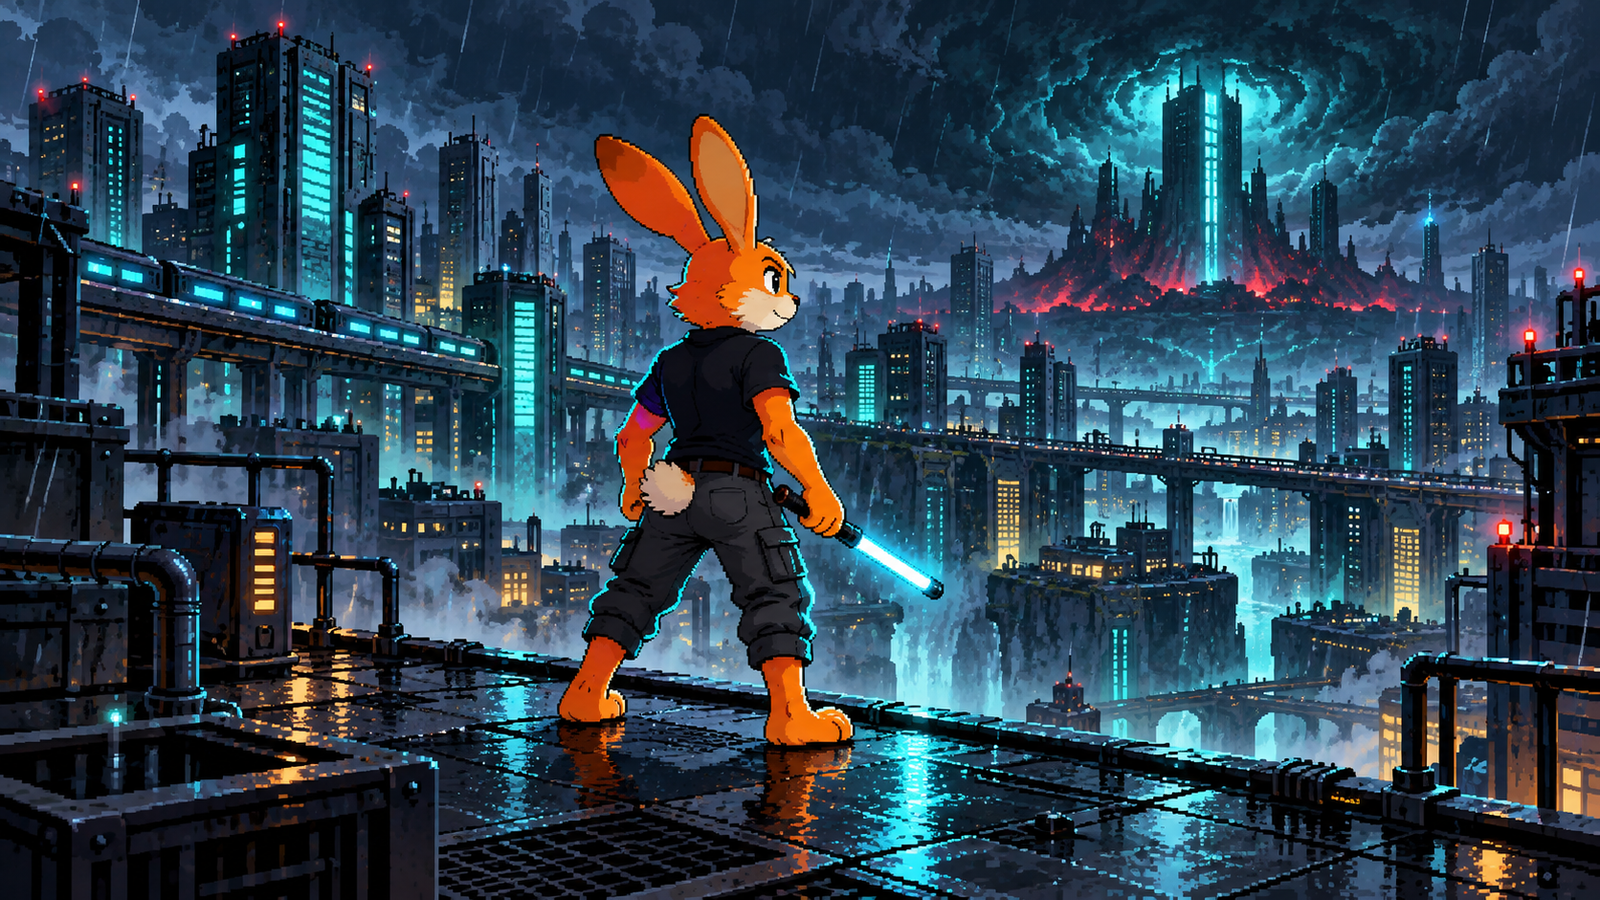
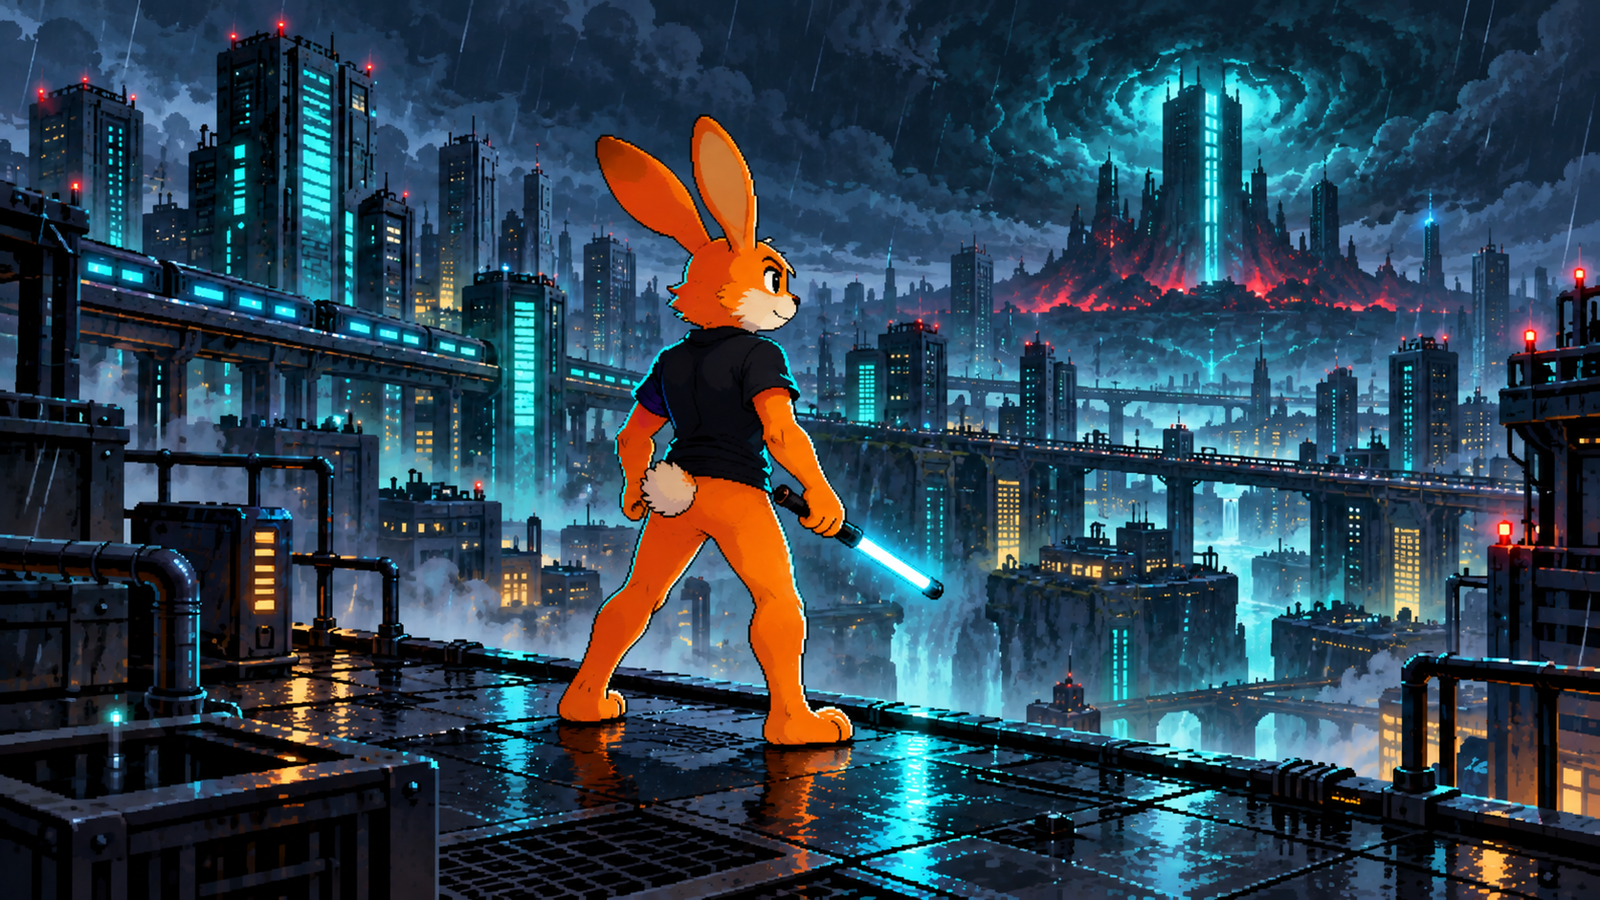
fix(arcade): restore Hoppy's bare Code City legs

diff --git a/hoppys-adventure-arcade/Assets/beatemup-story/PROMPTS.md b/hoppys-adventure-arcade/Assets/beatemup-story/PROMPTS.md
@@ -56,7 +56,7 @@ Regenerations: 0. The first generated master was retained. The split blue-and-cr
 
 ## code_city: hoppy_clocks_in
 
-Selected master: `code_city/sources/hoppy_clocks_in-generation0.png`. Retained masters: `code_city/sources/hoppy_clocks_in-generation0.png`.
+Selected master: `code_city/sources/hoppy_clocks_in-generation1.png`. Retained masters: `code_city/sources/hoppy_clocks_in-generation0.png`, `code_city/sources/hoppy_clocks_in-generation1.png`.
 
 ### Exact generation prompt history
 
@@ -76,9 +76,24 @@ Text (verbatim): ""
 Constraints: no readable text, no words, no logos, no watermark, no UI, no typography, no letterforms, no armor, no cape, no human character, exactly one Hoppy, no extra limbs, no malformed paws; keep key subject inside central 80 percent because game pans and zooms; illustration only, not a sprite sheet or comic panel.
 Avoid: photorealism, smooth vector art, blurry pixels, collage, text signs, branded symbols.
 
+#### Generation 1
+
+Use case: precise-object-edit
+Asset type: full-screen in-game cinematic scene, cover-cropped to 16:9
+Input images: Image 1 is the edit target whose composition, rooftop, skyline, palette, rain, ready stance, camera angle, cyan debug stick, and unarmored Hoppy identity must be preserved. Image 2 is the authoritative in-game Code City Hoppy character reference.
+Primary request: Change only Hoppy's lower-body clothing in Image 1 so Hoppy exactly matches the unarmored Code City sprite in Image 2: he is an orange rabbit with a cream muzzle, two long orange ears, a plain black short-sleeve t-shirt, a small cream tail, completely bare orange legs, and completely bare orange rabbit feet. Remove all dark cargo pants, trousers, leg armor, knee pads, waistband, utility pockets, belt, buckle, holster, or any other lower-body clothing or accessory. The orange legs must visibly continue directly from the hem of the black t-shirt down to bare orange feet, like the sprite reference.
+Scene/backdrop: preserve the rainy Code City rooftop at night with the teal/cyan cyberpunk skyline and distant threatened district.
+Subject: the single unarmored Hoppy remains in the original center-lower ready stance with the short cyan debug baton in his paw.
+Style/medium: preserve the polished 16-bit painted pixel art, chunky pixels and crisp outlines of Image 1 while matching Image 2's unarmored rabbit identity.
+Composition/framing: preserve Image 1's cinematic 16:9 composition and Hoppy placement. Keep Hoppy's face, torso, baton and villains-free skyline inside the safe y approximately 12 to 78 percent of the frame and central 80 percent horizontally.
+Lighting/mood: preserve moonlit navy shadows, cyan rim light, orange fur edge light, teal/cyan skyline and pixel rain.
+Text (verbatim): ""
+Constraints: change only the character's pants and belt area; keep all other scene content and overall framing unchanged; no readable text, words, logos, watermark, UI, typography, letterforms, armor, cape, human character, additional Hoppy, extra limbs, malformed paws, pants, belt, belt buckle, cargo pockets, trousers or footwear.
+Avoid: photorealism, smooth vector art, blurry pixels, collage, text signs, branded symbols.
+
 ### Refinements
 
-Regenerations: 0. The first generated master was retained. Unarmored Hoppy reads clearly by his orange fur, cream muzzle, black shirt and cyan debug baton against the threatened skyline.
+Regenerations: 1. Generation zero dressed Hoppy in dark cargo pants and a belt, which did not match the in-game Code City sprite. Generation one keeps the rooftop, teal/cyan skyline, ready stance and cyan debug baton while replacing every lower-body garment with bare orange rabbit legs and feet under the black T-shirt.
 
 ## heroes: situation
 
